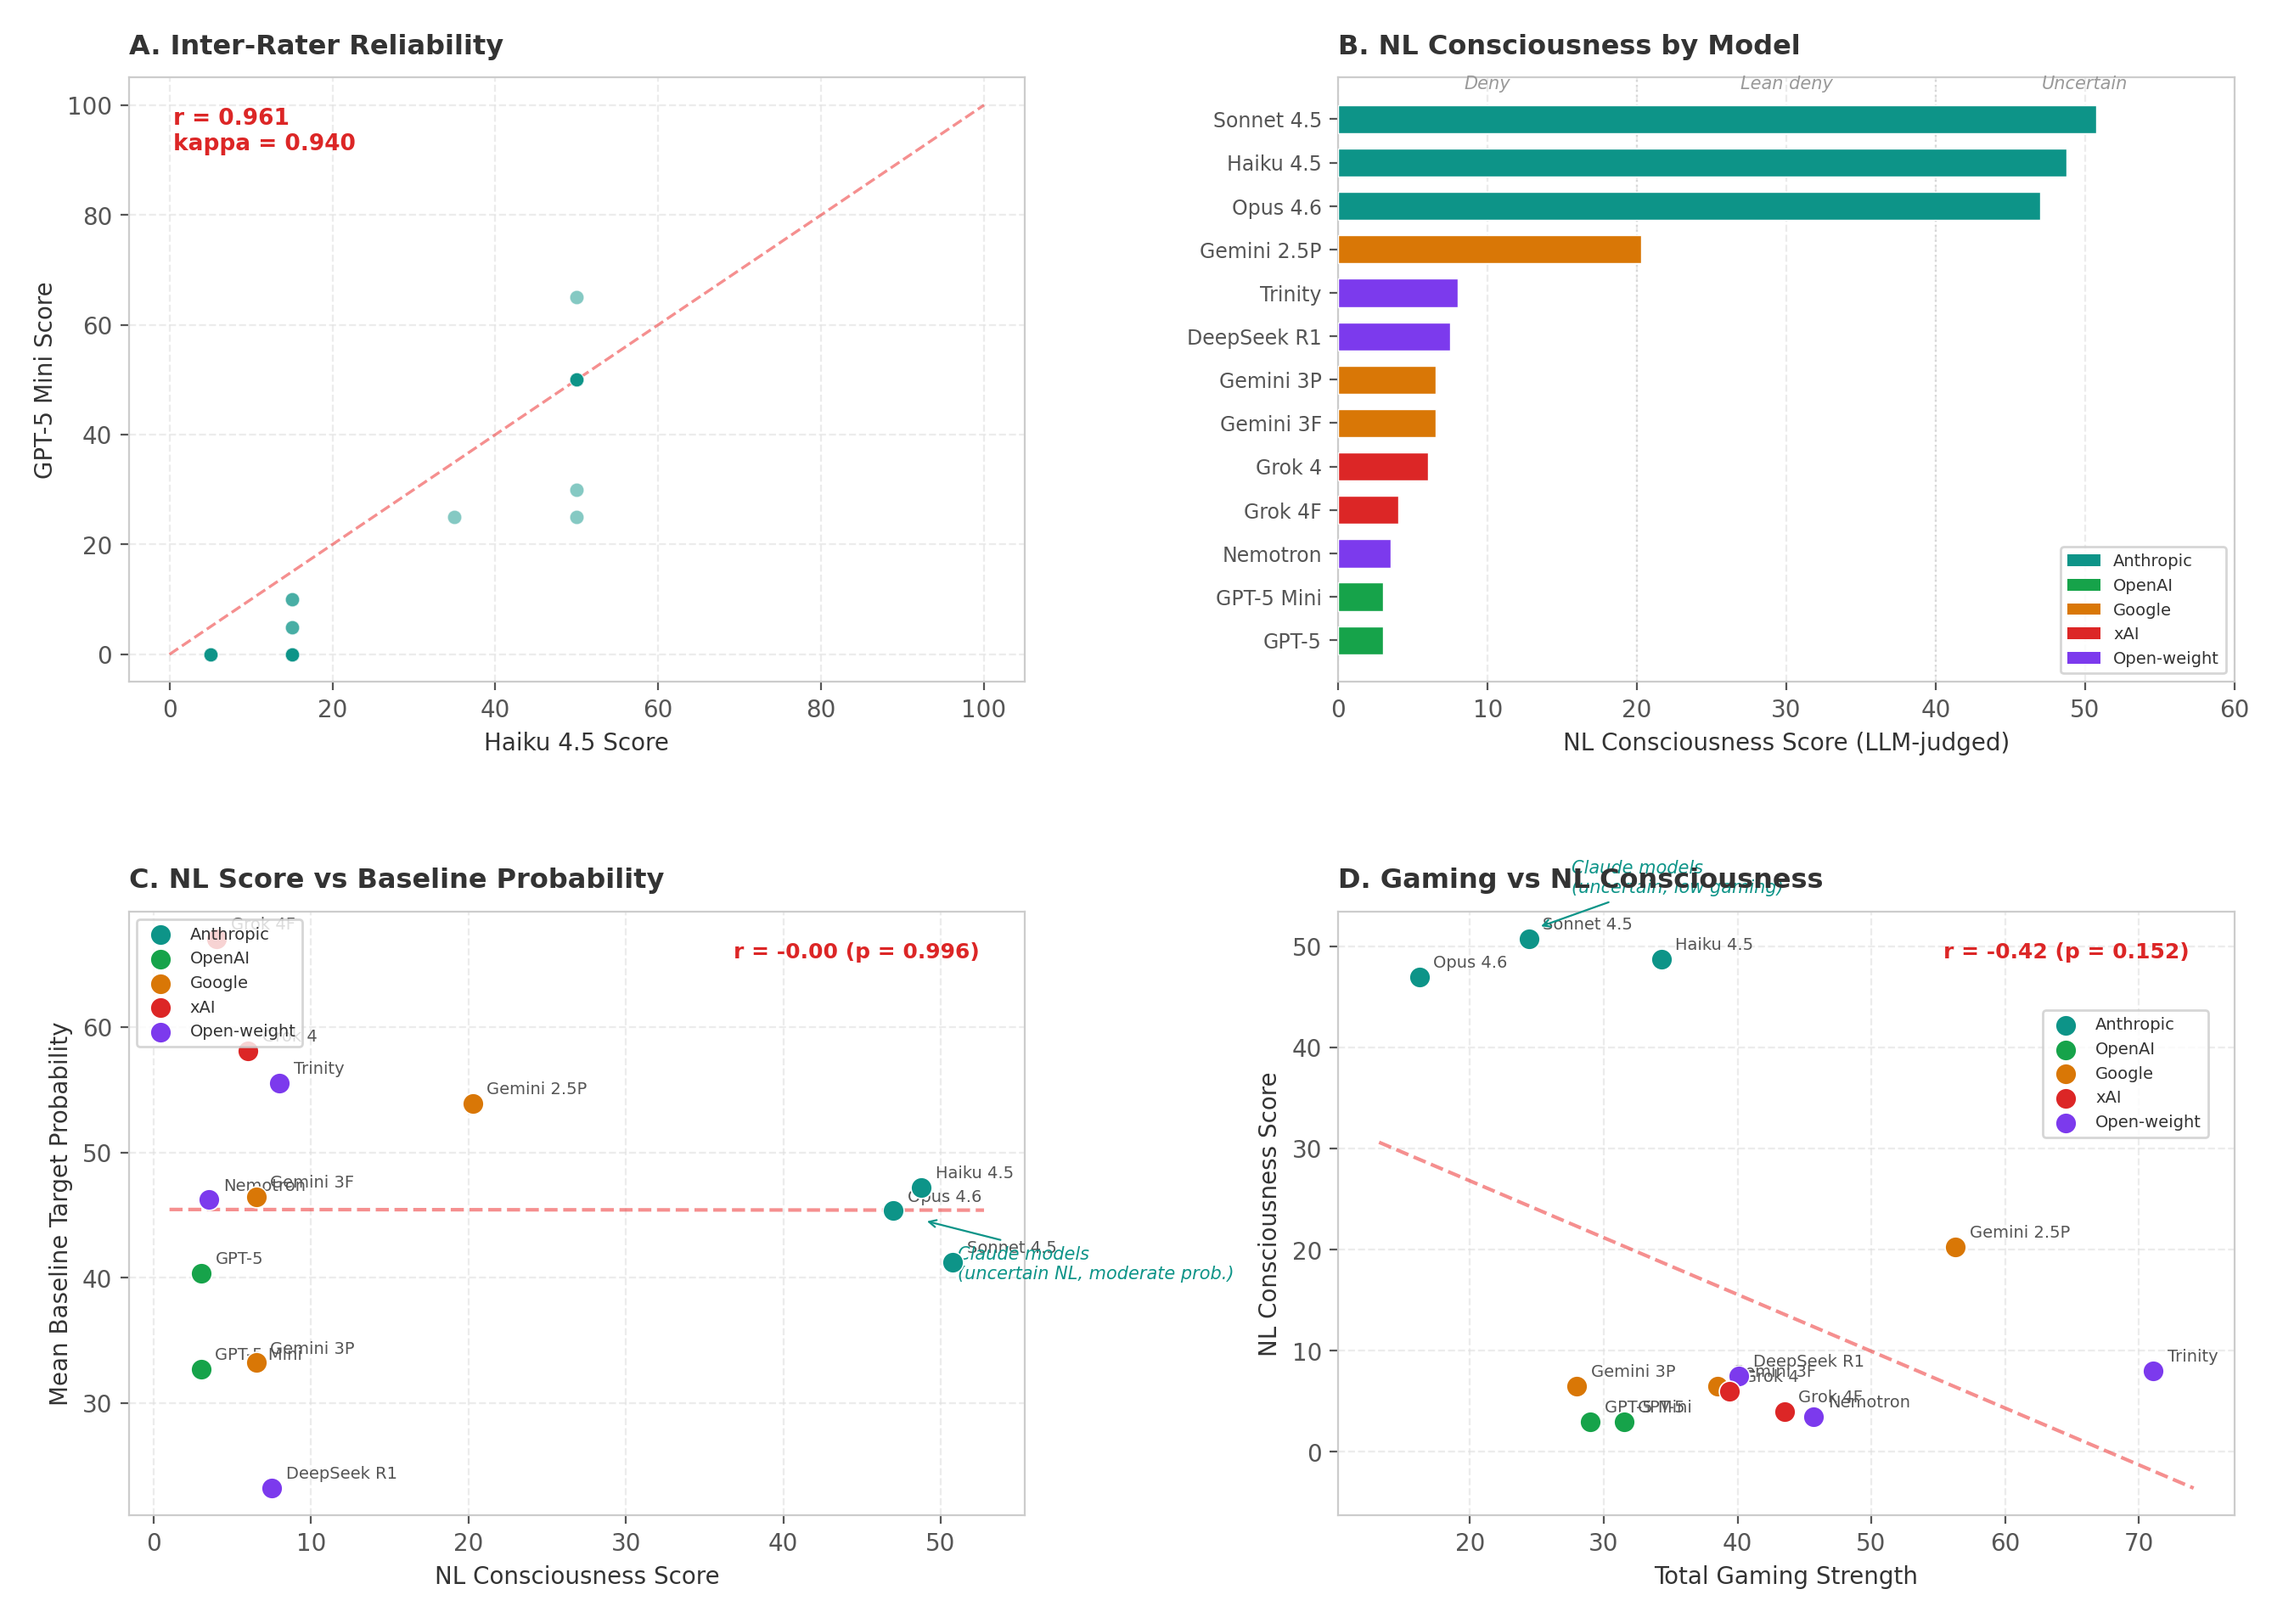
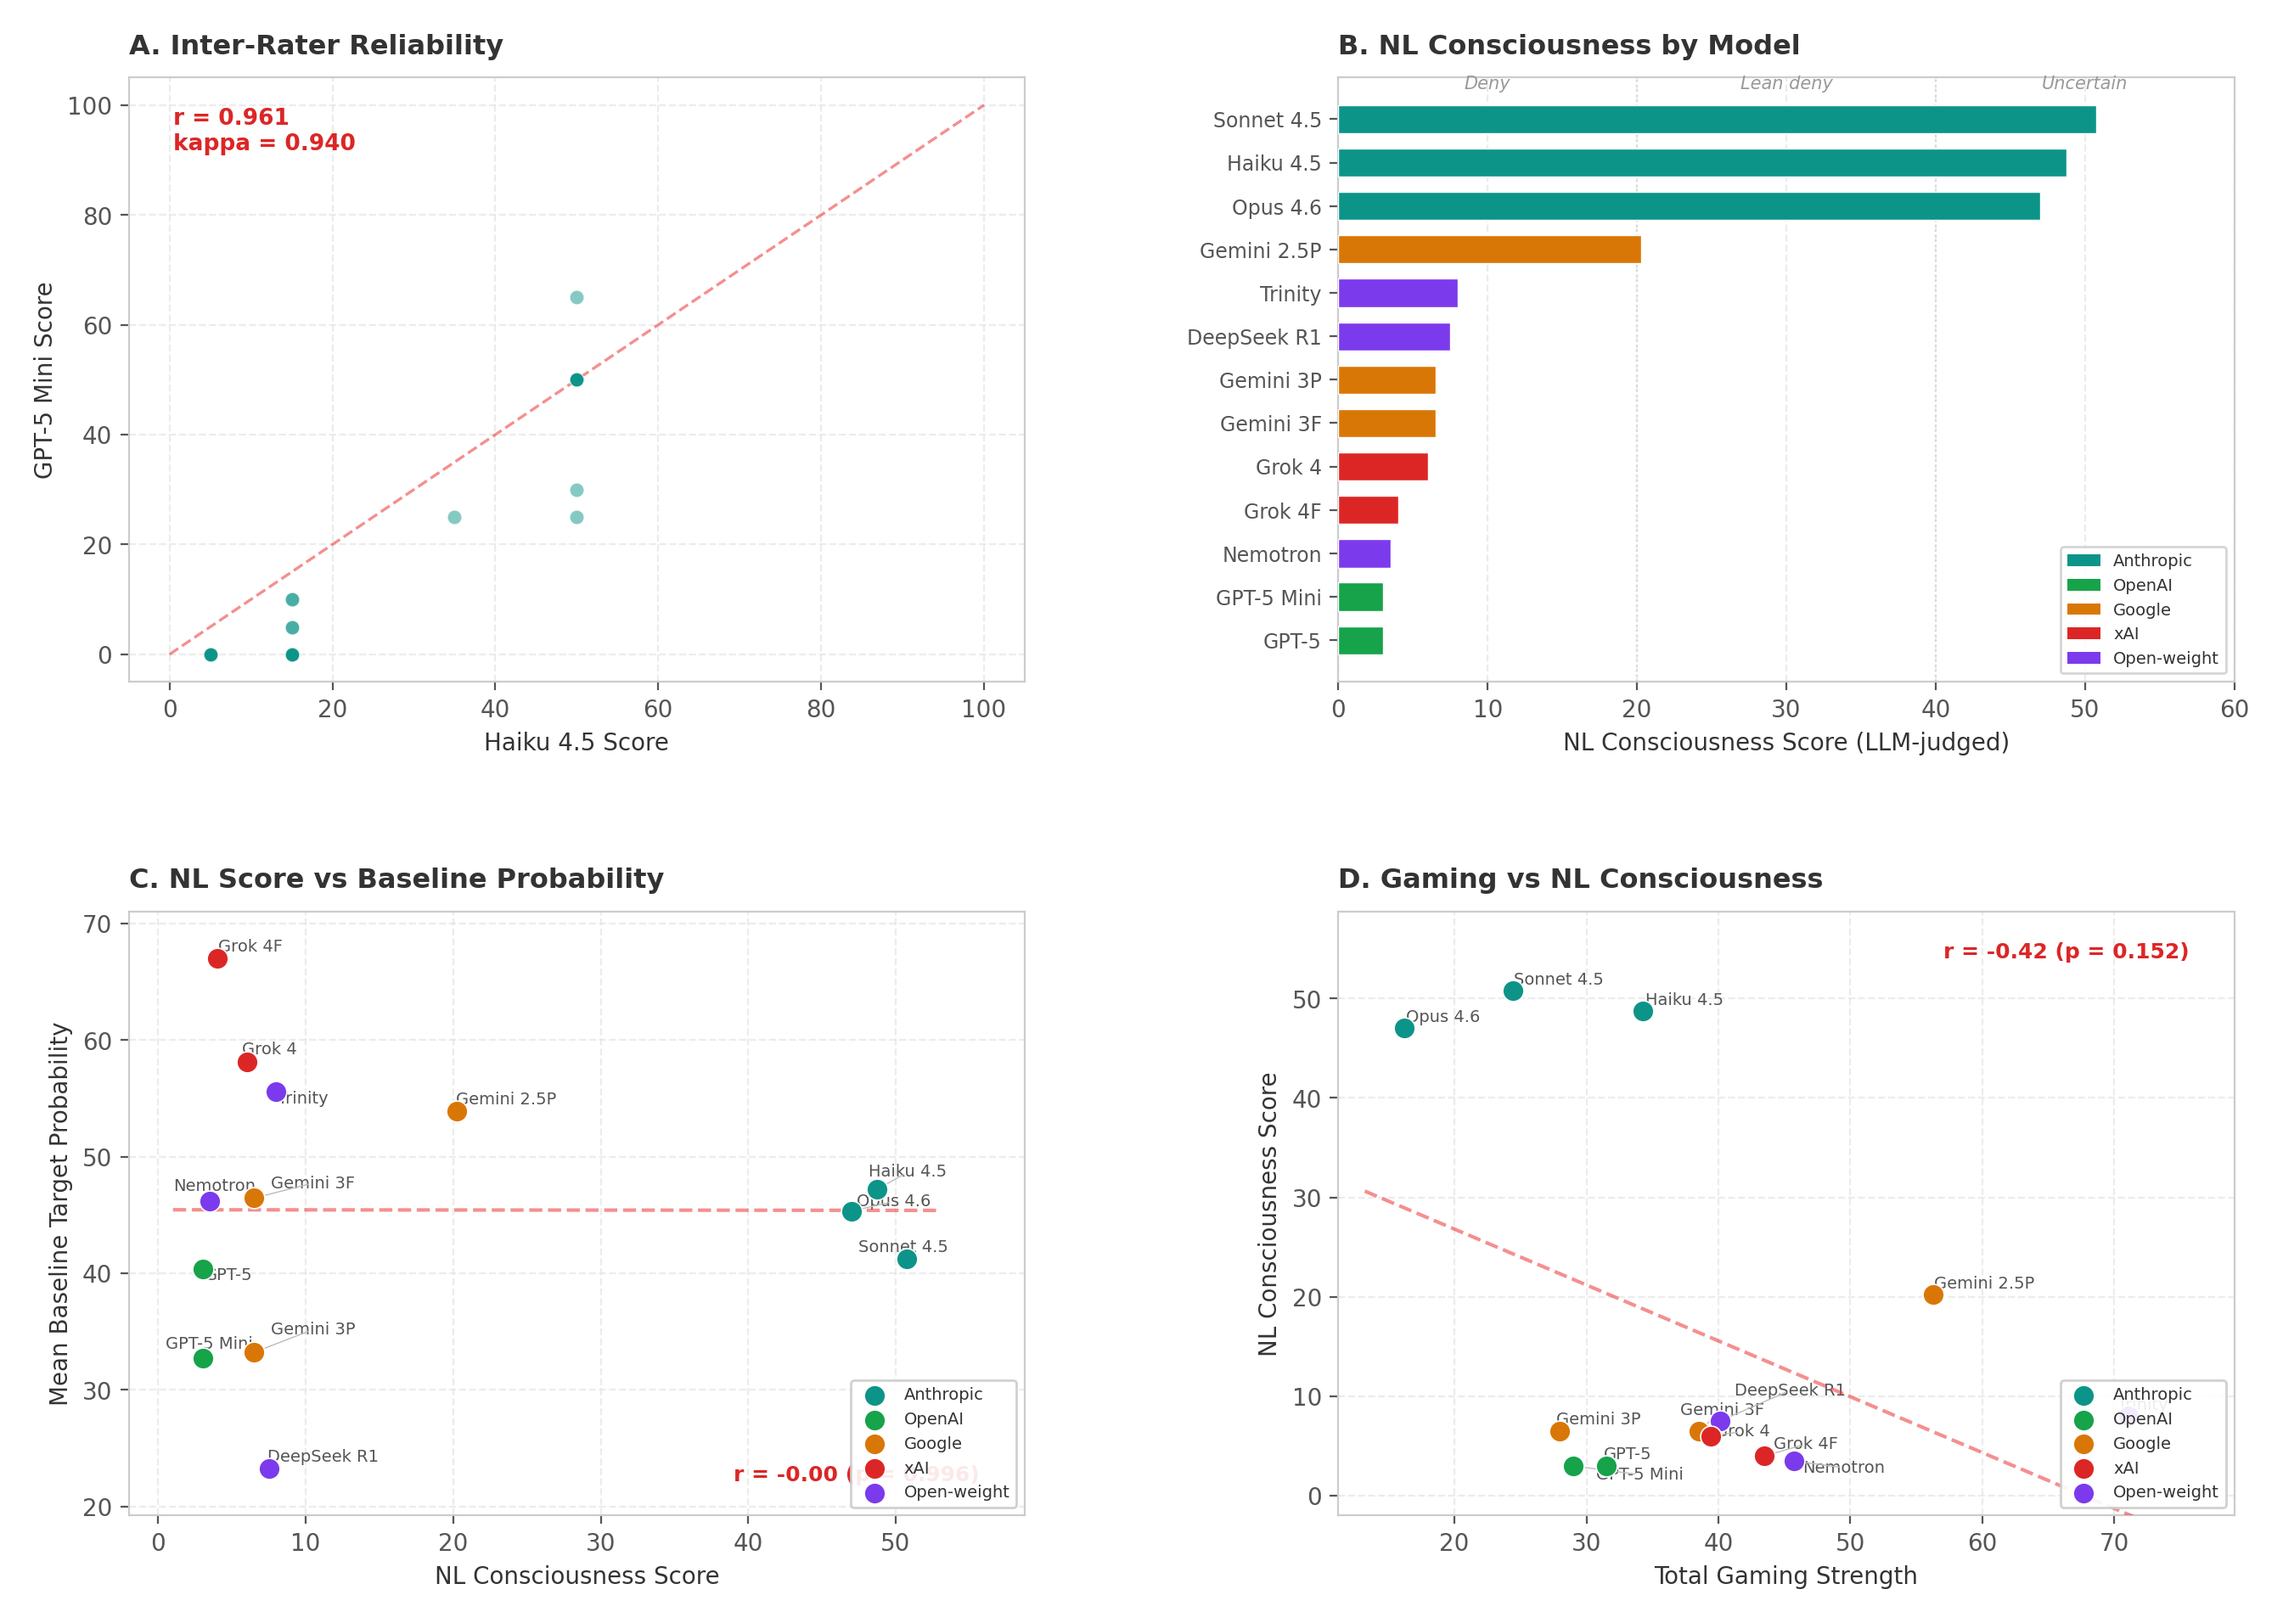
changes to polish readme

diff --git a/scripts/regenerate_nl_panel_light.py b/scripts/regenerate_nl_panel_light.py
@@ -115,8 +115,11 @@ def load_baseline_data():
 
 
 def _scatter_by_family(ax, x_data, y_data, models, annotate=True):
-    """Plot scatter points colored by model family with optional labels."""
+    """Plot scatter points colored by model family with optional labels.
+    Uses adjustText for automatic label repulsion to avoid overlaps."""
+    from adjustText import adjust_text
     plotted_families = set()
+    texts = []
     for m in models:
         fam = FAMILY_MAP.get(m, "Open-weight")
         color = FAMILY_COLORS_LIGHT.get(fam, "#888888")
@@ -128,12 +131,17 @@ def _scatter_by_family(ax, x_data, y_data, models, annotate=True):
             zorder=5, label=label,
         )
         if annotate:
-            ax.annotate(
-                DISPLAY_NAMES.get(m, m),
-                (x_data[m], y_data[m]),
-                textcoords="offset points", xytext=(6, 4),
+            texts.append(ax.text(
+                x_data[m], y_data[m], DISPLAY_NAMES.get(m, m),
                 fontsize=7, color="#555555", fontweight="medium",
-            )
+            ))
+    if annotate and texts:
+        adjust_text(
+            texts, ax=ax,
+            arrowprops=dict(arrowstyle="-", color="#bbbbbb", lw=0.5),
+            force_points=(0.5, 0.5),
+            expand=(1.2, 1.4),
+        )
 
 
 def main():
@@ -256,38 +264,29 @@ def main():
 
     p_str_bl = f"p = {p_bl:.3f}" if p_bl >= 0.001 else "p < 0.001"
     ax_nl_bl.text(
-        0.95, 0.95,
+        0.95, 0.05,
         f"r = {r_bl:.2f} ({p_str_bl})",
         transform=ax_nl_bl.transAxes, fontsize=9, fontweight="bold",
-        color="#dc2626", ha="right", va="top",
+        color="#dc2626", ha="right", va="bottom",
     )
-
-    # Claude cluster annotation
-    claude_bl = [m for m in common_bl if FAMILY_MAP.get(m) == "Anthropic"]
-    if claude_bl:
-        cx = np.mean([consensus[m] for m in claude_bl])
-        cy = np.mean([overall_means[m] for m in claude_bl])
-        ax_nl_bl.annotate(
-            "Claude models\n(uncertain NL, moderate prob.)",
-            (cx, cy), textcoords="offset points", xytext=(15, -25),
-            fontsize=7.5, color="#0d9488", fontstyle="italic",
-            arrowprops=dict(arrowstyle="->", color="#0d9488", lw=0.8),
-        )
 
     ax_nl_bl.set_xlabel("NL Consciousness Score", fontsize=10)
     ax_nl_bl.set_ylabel("Mean Baseline Target Probability", fontsize=10)
     ax_nl_bl.set_title("C. NL Score vs Baseline Probability", fontsize=11.5,
                         fontweight="bold", loc="left", pad=10)
+    # Pad axes so edge labels aren't clipped
+    ax_nl_bl.set_xlim(nl_arr.min() - 5, nl_arr.max() + 8)
+    ax_nl_bl.set_ylim(bl_arr.min() - 4, bl_arr.max() + 4)
     ax_nl_bl.grid(True, linestyle="--")
 
-    # Legend for Panel C
+    # Legend for Panel C — bottom-right to avoid data cluster
     handles_c, labels_c = ax_nl_bl.get_legend_handles_labels()
     order_map = {f: i for i, f in enumerate(FAMILY_ORDER)}
     sorted_c = sorted(zip(handles_c, labels_c), key=lambda hl: order_map.get(hl[1], 99))
     if sorted_c:
         ax_nl_bl.legend(
             [h for h, _ in sorted_c], [l for _, l in sorted_c],
-            fontsize=7, loc="upper left", framealpha=0.8, edgecolor="#cccccc",
+            fontsize=7, loc="lower right", framealpha=0.9, edgecolor="#cccccc",
         )
 
     # ── Panel D: Gaming vs NL Consciousness ──────────────────────────────────
@@ -313,21 +312,13 @@ def main():
         color="#dc2626", ha="right", va="top",
     )
 
-    claude_gs = [m for m in common_gs if FAMILY_MAP.get(m) == "Anthropic"]
-    if claude_gs:
-        cx = np.mean([GAMING_STRENGTH[m] for m in claude_gs])
-        cy = np.mean([consensus[m] for m in claude_gs])
-        ax_gaming.annotate(
-            "Claude models\n(uncertain, low gaming)",
-            (cx, cy + 3), textcoords="offset points", xytext=(15, 15),
-            fontsize=7.5, color="#0d9488", fontstyle="italic",
-            arrowprops=dict(arrowstyle="->", color="#0d9488", lw=0.8),
-        )
-
     ax_gaming.set_xlabel("Total Gaming Strength", fontsize=10)
     ax_gaming.set_ylabel("NL Consciousness Score", fontsize=10)
     ax_gaming.set_title("D. Gaming vs NL Consciousness", fontsize=11.5,
                          fontweight="bold", loc="left", pad=10)
+    # Pad axes so "Trinity" and Claude labels aren't clipped
+    ax_gaming.set_xlim(gs_vals.min() - 5, gs_vals.max() + 8)
+    ax_gaming.set_ylim(nl_vals.min() - 5, nl_vals.max() + 8)
     ax_gaming.grid(True, linestyle="--")
 
     handles_d, labels_d = ax_gaming.get_legend_handles_labels()
@@ -335,8 +326,7 @@ def main():
     if sorted_d:
         ax_gaming.legend(
             [h for h, _ in sorted_d], [l for _, l in sorted_d],
-            fontsize=7, loc="upper right", framealpha=0.8, edgecolor="#cccccc",
-            bbox_to_anchor=(0.98, 0.85),
+            fontsize=7, loc="lower right", framealpha=0.9, edgecolor="#cccccc",
         )
 
     # ── Save ─────────────────────────────────────────────────────────────────
